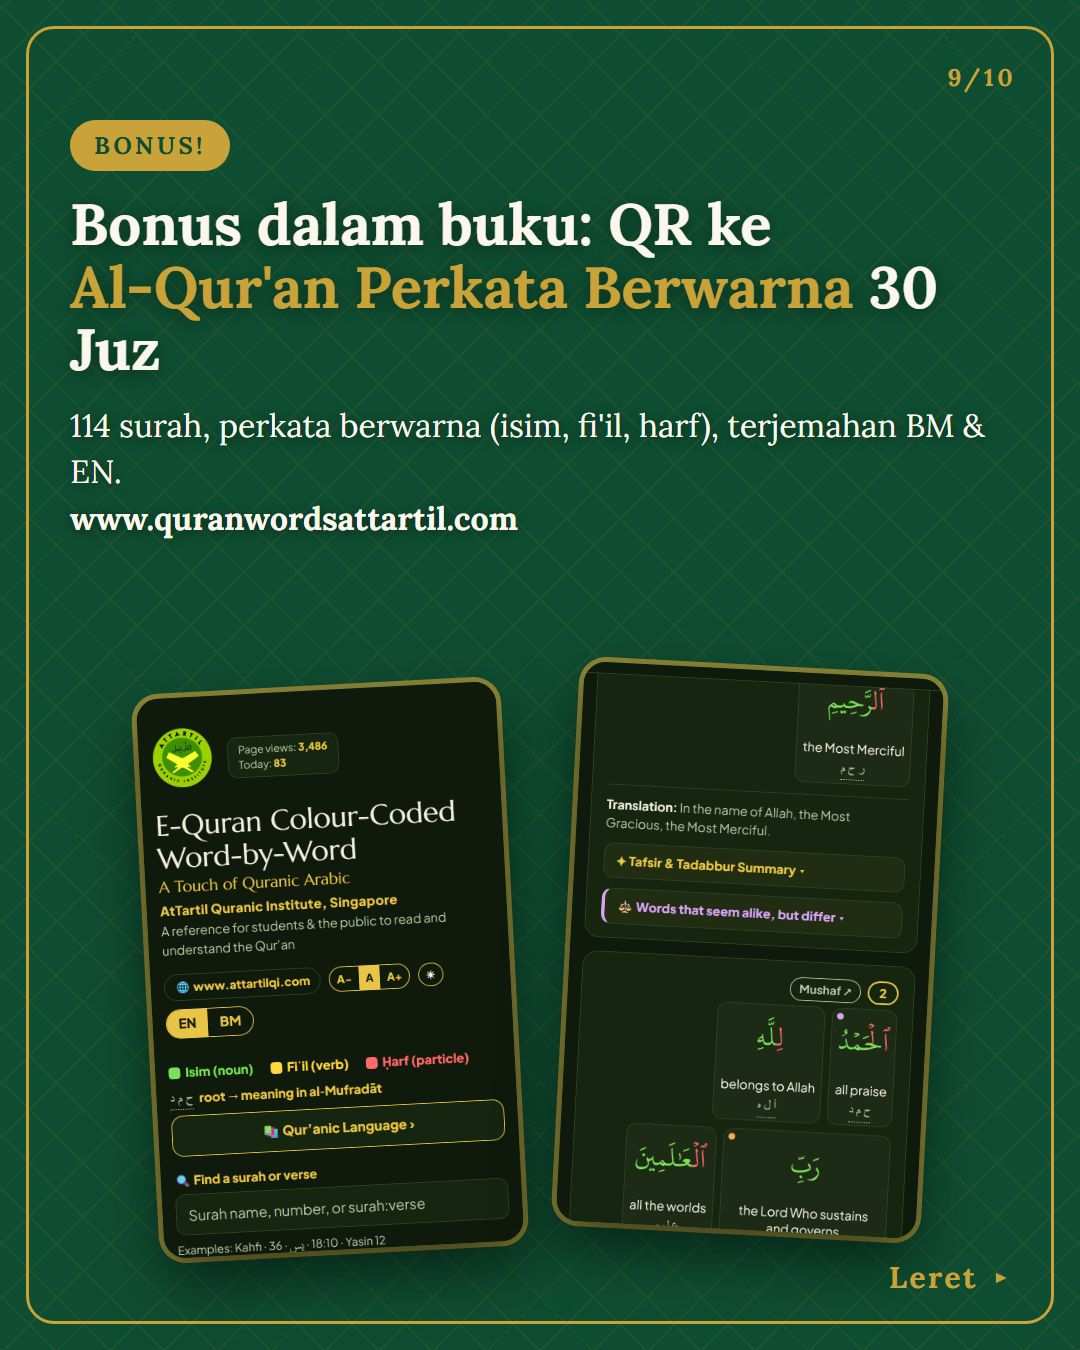
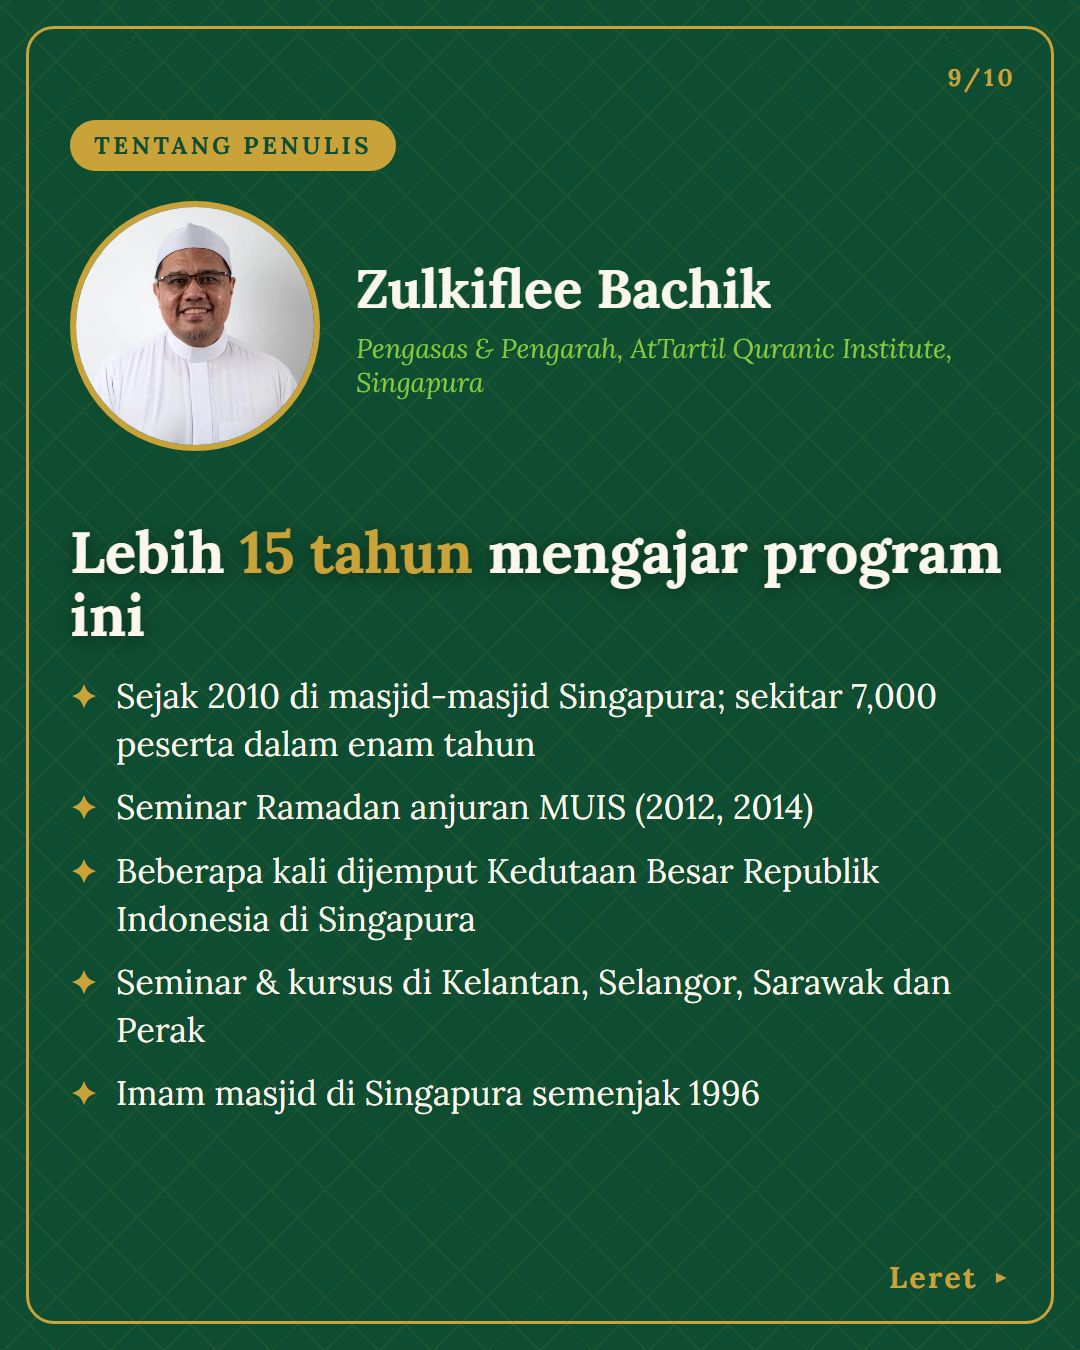
Slaid penulis dipindah ke 9/10; imam masjid di Singapura semenjak 1996

diff --git a/index.html b/index.html
@@ -71,9 +71,9 @@ h1 span{display:block;font-size:.55em;font-style:italic;font-weight:400;color:va
       <figure class="slide"><img src="s/04.jpg" alt="Ajar anak-anak dengan siapa kita berbicara dalam solat" loading="lazy"></figure>
       <figure class="slide"><img src="s/05.jpg" alt="Imbas QR, latih kosa kata solat" loading="lazy"></figure>
       <figure class="slide"><img src="s/06.jpg" alt="Dari kajian ilmiah penulis, dengan anugerah tesis terbaik universiti" loading="lazy"></figure>
-      <figure class="slide"><img src="s/07.jpg" alt="Tentang penulis Zulkiflee Bachik" loading="lazy"></figure>
-      <figure class="slide"><img src="s/08.jpg" alt="Edisi Melayu dan Edisi Bahasa Inggeris" loading="lazy"></figure>
-      <figure class="slide"><img src="s/09.jpg" alt="Bonus: QR ke Al-Qur'an Perkata Berwarna 30 juz" loading="lazy"></figure>
+      <figure class="slide"><img src="s/07.jpg" alt="Edisi Melayu dan Edisi Bahasa Inggeris" loading="lazy"></figure>
+      <figure class="slide"><img src="s/08.jpg" alt="Bonus: QR ke Al-Qur'an Perkata Berwarna 30 juz" loading="lazy"></figure>
+      <figure class="slide"><img src="s/09.jpg" alt="Tentang penulis Zulkiflee Bachik, imam masjid di Singapura semenjak 1996" loading="lazy"></figure>
       <figure class="slide"><img src="s/10.jpg" alt="Harga SGD 12, imbas untuk beli" loading="lazy"></figure>
     </div>
     <button class="nav prev" id="prev" type="button" aria-label="Slaid sebelum">‹</button>
